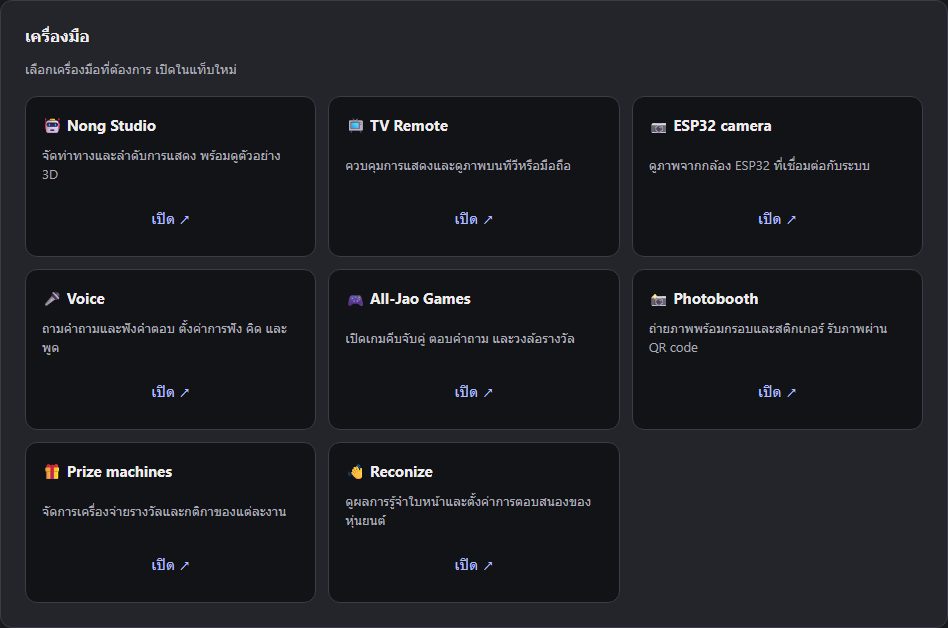
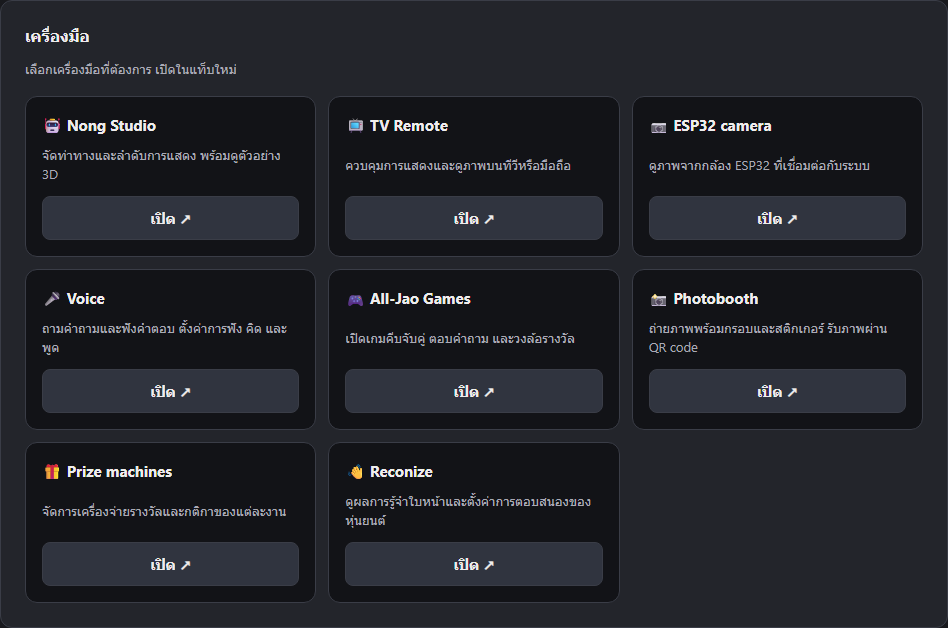
Record final review corrections and refreshed Tools screenshot

diff --git a/handoff/tasks/usability-review-1026.md b/handoff/tasks/usability-review-1026.md
@@ -11,7 +11,7 @@ Plan: A48-19 (robot); related A48-13 (Lift/physical), A48-18 done
 Finish all own UI usability and residual software gaps. No duplicated Help in Tools (global entry exists). Continue autonomously; preserve root dirty files and immutable proof trees. Physical USER-NOTREADY.
 
 ## Doing now
-Step3 checkpoint: Lift deadline/fault/config/commands/UI/Help/native implementation complete; current selected622/0 includes actual Edge error/recovery journeys. First native broken import fixed; native107/0 then GPIO+idle-conflict expanded. mice_lift build exit0 RAM53140/Flash1590045(80.9%) before last GPIO/idle change; rebuild required. UI review2TV P1s fixed with new23/0 actual-method cases. Final review remains unapproved (reviewer hit quota); fresh review after reset/fallback only. Next allpage visual matrix, deliberate regressions, final exact review and frozen full/package/integration.
+Step4 required review corrections: final_review9ebd817 NOT APPROVED:2TVP1s (already-dispatched start survives Stop; raw STOP ERR ignored). Design consultation complete: shared transition lock, start epoch reservations +optional stamped API, explicit fresh STOP ack and selected-device confirmation, retain unresolved workers. Implement/test exact thread interleavings and Help parity. Lift implemented, selected622/0;17page136theme-width visual0overflow; Voice keyboard initial-focus fixture needs diagnosis. No physical/runtime/model work.
 
 ## File status
 Current baseline-to-worktree Git paths reconciled; generated unrelated4outputs and other headers touched raw EOL only, no Git content delta. Private evidence under scratch/usability-review-1026 (not source/public).
@@ -94,6 +94,9 @@ Current baseline-to-worktree Git paths reconciled; generated unrelated4outputs a
 | qc/data/usability_browser.js | Executed production/native/browser regression | implemented; review/full pending | selected622/0; scratch/usability-review-1026/current-affected.log | uncommitted |
 | qc/data/usability_dom.js | Executed production/native/browser regression | implemented; review/full pending | selected622/0; scratch/usability-review-1026/current-affected.log | uncommitted |
 | qc/data/usability_hub.js | Executed production/native/browser regression | implemented; review/full pending | selected622/0; scratch/usability-review-1026/current-affected.log | uncommitted |
+| main_python/hub_show.py | Stop/start barrier and acknowledgement contract | pending | not run | uncommitted |
+| main_python/hub_api_play.py | Stop/start barrier and acknowledgement contract | pending | not run | uncommitted |
+| qc/checks/check_play_stop_order.py | Stop/start barrier and acknowledgement contract | pending | not run | uncommitted |
 
 ## Facts found
 - Dynamic CPU/GPU/RAM/Voice/browser policy DONE in PR82/root3298e36; previous full8418/0 qualified4isolated retries+994inputs stable. Do not rework or reuse old receipt.
